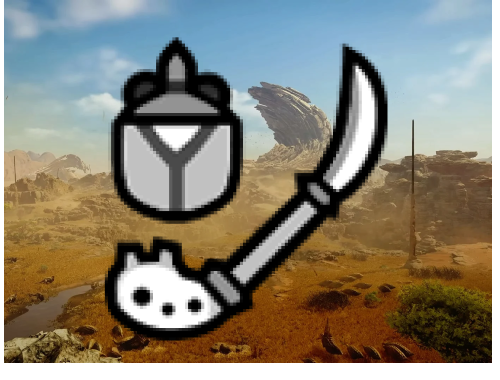
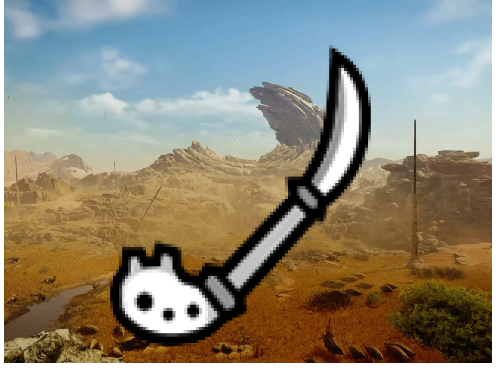
InsectGlaivePack: All suggestions have been modified

diff --git a/src/main/java/thePackmaster/cards/insectglaivepack/AbstractInsectGlaiveCard.java b/src/main/java/thePackmaster/cards/insectglaivepack/AbstractInsectGlaiveCard.java
@@ -9,6 +9,7 @@ import com.megacrit.cardcrawl.core.CardCrawlGame;
 import com.megacrit.cardcrawl.dungeons.AbstractDungeon;
 import com.megacrit.cardcrawl.localization.UIStrings;
 import thePackmaster.SpireAnniversary5Mod;
+import thePackmaster.ThePackmaster;
 import thePackmaster.cardmodifiers.insectglaivepack.ExtractedEssenceRed;
 import thePackmaster.cardmodifiers.insectglaivepack.ExtractedEssenceWhite;
 import thePackmaster.cardmodifiers.insectglaivepack.ExtractedEssenceYellow;
@@ -25,7 +26,11 @@ public abstract class AbstractInsectGlaiveCard extends AbstractPackmasterCard {
 
 
     public AbstractInsectGlaiveCard(String cardID, int cost, CardType type, CardRarity rarity, CardTarget target) {
-        super(cardID, cost, type, rarity, target, "insectglaive");
+        this(cardID, cost, type, rarity, target, ThePackmaster.Enums.PACKMASTER_RAINBOW);
+    }
+
+    public AbstractInsectGlaiveCard(String cardID, int cost, CardType type, CardRarity rarity, CardTarget target, CardColor color) {
+        super(cardID, cost, type, rarity, target, color, "insectglaive");
 
         CardModifierManager.addModifier(this, new AbstractCardModifier() {
 

diff --git a/src/main/java/thePackmaster/cardmodifiers/insectglaivepack/ExtractedEssenceYellow.java b/src/main/java/thePackmaster/cardmodifiers/insectglaivepack/ExtractedEssenceYellow.java
@@ -15,6 +15,7 @@ import com.megacrit.cardcrawl.core.Settings;
 import com.megacrit.cardcrawl.dungeons.AbstractDungeon;
 import com.megacrit.cardcrawl.localization.UIStrings;
 import thePackmaster.SpireAnniversary5Mod;
+import thePackmaster.cards.insectglaivepack.derivative.CardForSectionOfIG;
 import thePackmaster.packs.InsectGlaivePack;
 import thePackmaster.powers.insectglaivepack.ExtractedEssenceYellowPower;
 import thePackmaster.util.TexLoader;
@@ -37,7 +38,13 @@ public class ExtractedEssenceYellow extends AbstractCardModifier {
 
     @Override
     public void onRender(AbstractCard card, SpriteBatch sb) {
-        ExtraIcons.renderIcon(card, texture, 0, 0, Color.WHITE);
+        if (card instanceof CardForSectionOfIG)
+            ExtraIcons.renderIcon(card, texture,
+                    AbstractCard.IMG_WIDTH_S * 0.4F / Settings.scale,
+                    -AbstractCard.IMG_HEIGHT_S * 0.1F / Settings.scale,
+                    Color.WHITE);
+        else
+            ExtraIcons.renderIcon(card, texture, 0, 0, Color.WHITE);
     }
 
     @Override

diff --git a/src/main/java/thePackmaster/cardmodifiers/insectglaivepack/ExtractedEssenceWhite.java b/src/main/java/thePackmaster/cardmodifiers/insectglaivepack/ExtractedEssenceWhite.java
@@ -15,6 +15,7 @@ import com.megacrit.cardcrawl.core.Settings;
 import com.megacrit.cardcrawl.dungeons.AbstractDungeon;
 import com.megacrit.cardcrawl.localization.UIStrings;
 import thePackmaster.SpireAnniversary5Mod;
+import thePackmaster.cards.insectglaivepack.derivative.CardForSectionOfIG;
 import thePackmaster.packs.InsectGlaivePack;
 import thePackmaster.powers.insectglaivepack.ExtractedEssenceWhitePower;
 import thePackmaster.util.TexLoader;
@@ -37,7 +38,13 @@ public class ExtractedEssenceWhite extends AbstractCardModifier {
 
     @Override
     public void onRender(AbstractCard card, SpriteBatch sb) {
-        ExtraIcons.renderIcon(card, texture, 0, 0, Color.WHITE);
+        if (card instanceof CardForSectionOfIG)
+            ExtraIcons.renderIcon(card, texture,
+                    AbstractCard.IMG_WIDTH_S * 0.4F / Settings.scale,
+                    -AbstractCard.IMG_HEIGHT_S * 0.1F / Settings.scale,
+                    Color.WHITE);
+        else
+            ExtraIcons.renderIcon(card, texture, 0, 0, Color.WHITE);
     }
 
     @Override

diff --git a/src/main/java/thePackmaster/cardmodifiers/insectglaivepack/ExtractedEssenceRed.java b/src/main/java/thePackmaster/cardmodifiers/insectglaivepack/ExtractedEssenceRed.java
@@ -15,6 +15,7 @@ import com.megacrit.cardcrawl.core.Settings;
 import com.megacrit.cardcrawl.dungeons.AbstractDungeon;
 import com.megacrit.cardcrawl.localization.UIStrings;
 import thePackmaster.SpireAnniversary5Mod;
+import thePackmaster.cards.insectglaivepack.derivative.CardForSectionOfIG;
 import thePackmaster.packs.InsectGlaivePack;
 import thePackmaster.powers.insectglaivepack.ExtractedEssenceRedPower;
 import thePackmaster.util.TexLoader;
@@ -38,7 +39,13 @@ public class ExtractedEssenceRed extends AbstractCardModifier {
 
     @Override
     public void onRender(AbstractCard card, SpriteBatch sb) {
-        ExtraIcons.renderIcon(card, texture, 0, 0, Color.WHITE);
+        if (card instanceof CardForSectionOfIG)
+            ExtraIcons.renderIcon(card, texture,
+                    AbstractCard.IMG_WIDTH_S * 0.4F / Settings.scale,
+                    -AbstractCard.IMG_HEIGHT_S * 0.1F / Settings.scale,
+                    Color.WHITE);
+        else
+            ExtraIcons.renderIcon(card, texture, 0, 0, Color.WHITE);
     }
 
     @Override

diff --git a/src/main/java/thePackmaster/packs/InsectGlaivePack.java b/src/main/java/thePackmaster/packs/InsectGlaivePack.java
@@ -15,6 +15,7 @@ import org.apache.logging.log4j.LogManager;
 import org.apache.logging.log4j.Logger;
 import thePackmaster.SpireAnniversary5Mod;
 import thePackmaster.cards.insectglaivepack.*;
+import thePackmaster.cards.insectglaivepack.derivative.VaultingDance;
 import thePackmaster.patches.insectglaivepack.DrawAnalyzer;
 import thePackmaster.powers.insectglaivepack.ExtractedEssenceRedPower;
 import thePackmaster.powers.insectglaivepack.ExtractedEssenceWhitePower;
@@ -35,7 +36,7 @@ public class InsectGlaivePack extends AbstractCardPack {
 
 
     public InsectGlaivePack() {
-        super(ID, NAME, DESC, AUTHOR, new PackSummary(4, 2, 3, 3, 3));
+        super(ID, NAME, DESC, AUTHOR, new PackSummary(3, 3, 4, 3, 3));
     }
 
     @Override
@@ -51,6 +52,7 @@ public class InsectGlaivePack extends AbstractCardPack {
         cards.add(RisingSpiralSlash.ID);
         cards.add(Evade.ID);
         cards.add(Mounting.ID);
+        cards.add(VaultingDance.ID);
         return cards;
     }
 

diff --git a/src/main/java/thePackmaster/powers/insectglaivepack/MountingPower.java b/src/main/java/thePackmaster/powers/insectglaivepack/MountingPower.java
@@ -1,5 +1,6 @@
 package thePackmaster.powers.insectglaivepack;
 
+import com.evacipated.cardcrawl.mod.stslib.powers.interfaces.NonStackablePower;
 import com.megacrit.cardcrawl.actions.AbstractGameAction;
 import com.megacrit.cardcrawl.actions.common.DamageAllEnemiesAction;
 import com.megacrit.cardcrawl.actions.common.DrawCardAction;
@@ -18,7 +19,7 @@ import thePackmaster.cards.insectglaivepack.AbstractInsectGlaiveCard;
 import thePackmaster.packs.InsectGlaivePack;
 import thePackmaster.powers.AbstractPackmasterPower;
 
-public class MountingPower extends AbstractPackmasterPower {
+public class MountingPower extends AbstractPackmasterPower implements NonStackablePower {
     public static String ID = SpireAnniversary5Mod.makeID(MountingPower.class.getSimpleName());
     private static final PowerStrings STRINGS = CardCrawlGame.languagePack.getPowerStrings(ID);
     private static final String[] DESCRIPTIONS = STRINGS.DESCRIPTIONS;

diff --git a/src/main/java/thePackmaster/cards/insectglaivepack/derivative/VaultingDance.java b/src/main/java/thePackmaster/cards/insectglaivepack/derivative/VaultingDance.java
@@ -12,7 +12,7 @@ public class VaultingDance extends AbstractInsectGlaiveCard {
     public static final String ID = SpireAnniversary5Mod.makeID(VaultingDance.class.getSimpleName());
 
     public VaultingDance() {
-        super(ID, 0, CardType.SKILL, CardRarity.SPECIAL, CardTarget.NONE);
+        super(ID, 0, CardType.SKILL, CardRarity.SPECIAL, CardTarget.ENEMY, CardColor.COLORLESS);
         this.magicNumber = this.baseMagicNumber = 1;
         this.exhaust = true;
     }
